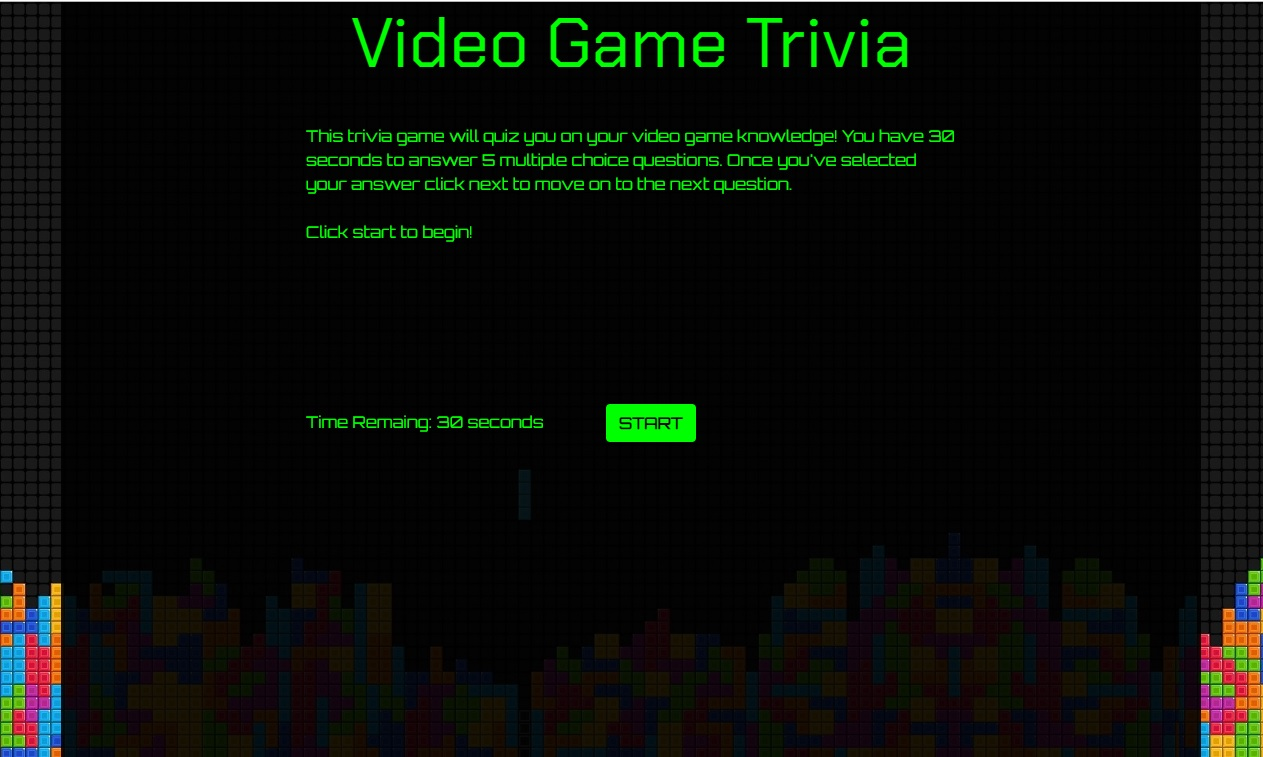
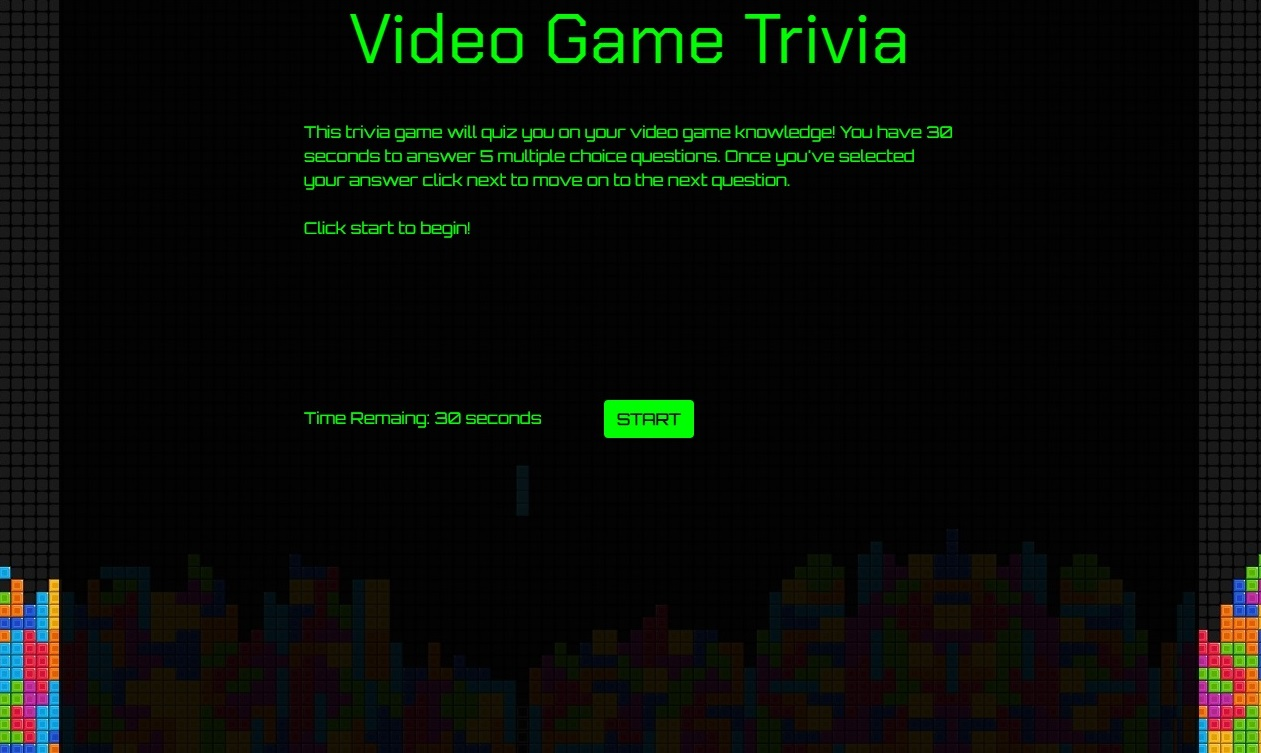
added animations, added project

diff --git a/index.html b/index.html
@@ -5,45 +5,69 @@
    <link rel="stylesheet" type="text/css" href="assets/css/reset.css">
    <link rel="stylesheet" href="https://stackpath.bootstrapcdn.com/bootstrap/4.1.3/css/bootstrap.min.css" integrity="sha384-MCw98/SFnGE8fJT3GXwEOngsV7Zt27NXFoaoApmYm81iuXoPkFOJwJ8ERdknLPMO"
    crossorigin="anonymous">
-   <link rel="stylesheet" href="https://cdnjs.cloudflare.com/ajax/libs/jquery-modal/0.9.1/jquery.modal.min.css" />
+   <link href="https://unpkg.com/aos@2.3.1/dist/aos.css" rel="stylesheet">
+   <link rel="stylesheet" href="https://cdnjs.cloudflare.com/ajax/libs/animate.css/3.7.0/animate.min.css">
+    <link rel="stylesheet" href="https://cdnjs.cloudflare.com/ajax/libs/jquery-modal/0.9.1/jquery.modal.min.css" />
   <link rel="stylesheet" type="text/css" href="assets/css/style.css">
   <link href="https://fonts.googleapis.com/css?family=Cabin+Sketch|Charm|Fredericka+the+Great" rel="stylesheet">
   <link href="https://fonts.googleapis.com/css?family=Niconne" rel="stylesheet">
   <link href="https://fonts.googleapis.com/css?family=Lora" rel="stylesheet">
+  
+  <script src="https://unpkg.com/aos@2.3.1/dist/aos.js"></script>
   <script src="https://cdnjs.cloudflare.com/ajax/libs/jquery/3.2.1/jquery.min.js"></script>
   <script src="https://cdnjs.cloudflare.com/ajax/libs/jquery-modal/0.9.1/jquery.modal.min.js"></script>
   <script src="assets/javascript/app.js"></script>
+  
 </head>
 <body>
     <main class="container">
-        <div class="jumbotron jumbotron-fluid" id="about-me">
+        <div class="jumbotron jumbotron-fluid" id="about-me" data-aos="fade-down">
             <div class="container">
                 <h1 class="display-4" id="about-head">About Me</h1>
                 <img id="my-photo" class="float-left rounded-circle" src="assets/images/hs-styled.png">
-                <p id="about-text"class="lead">Web developer with experience in html, css, and javascript. Partly self taught and currently going through a coding boot camp while working full time. Always looking for the opportunity to learn something new and build on old knowledge in order to create new, exciting web applications. Was originally pursuing a degree in sociology at The Ohio State University before reigniting passion for coding. Planning to return to school part time in pursuit of a CS degree.
+                <p id="about-text"class="lead">Web developer with experience in html, css, and javascript. Partly self taught and currently going through a coding boot camp while working full time. Always looking for the opportunity to learn something new and build on old knowledge in order to create new, exciting web applications. Was originally pursuing a degree in sociology at The Ohio State University before reigniting passion for coding. Planning to return to school part time in pursuit of a CS degree. Looking for opportunities to increase my knowledge and skill set while contributing to a development team.
 </p>
             </div>
         </div>
 
-        <div id="portfolio">
+        <div id="portfolio" data-aos="fade-up">
             <h1 class="display-4" id="portfolio-head">Portfolio</h1>
-            <div class=row>
-                <div class="card-holder card-left">
-                    <div class="card rounded" id="card-hold1">
-                        <div class="card-front rounded">
-                            <img class="rounded card-image" src="assets/images/trivia.jpg">
+            <div class="row">
+                <div class="col-6">
+                    <div class="card-holder card-left">
+                        <div class="card rounded" id="card-hold1">
+                            <div class="card-front rounded">
+                                <img class="rounded card-image" src="assets/images/trivia.jpg">
                             </div>
-                        <div class="card-back rounded">
-                            <p>#html #css #bootstrap #javascript #jquery</p>
-                            <p><a class="card-link" href="#trivia-modal" rel="modal:open">Learn More</a></p>
+                            <div class="card-back rounded">
+                                <p>#HTML #CSS #Bootstrap #JavaScript #jQuery</p>
+                                <p><a class="card-link" href="#trivia-modal" rel="modal:open">Learn More</a></p>
+                            </div>
                         </div>
                     </div>
+                    <h3 class="card-title-left">Trivia Game</h3>
+                </div>
+
+                <div class="col-6">
+                    <div class="card-holder card-right">
+                        <div class="card rounded" id="card-hold1">
+                            <div class="card-front rounded">
+                                <img class="rounded card-image" src="assets/images/night-out.jpg">
+                            </div>
+                            <div class="card-back rounded">
+                                <p>#HTML #CSS #Bootstrap #JavaScript #jQuery #API-integration #animation-libraries</p>
+                                <p><a class="card-link" href="#night-out-modal" rel="modal:open">Learn More</a></p>
+                            </div>
+                        </div>
+                    </div>
+                    <h3 class="card-title-right">Night on the Town</h3>
                 </div>
             </div>
-            <h3 class="card-title">Trivia Game</h3>
+            
+            
         </div>
 
-        <div id="contact">
+        <div id="contact" data-aos="fade-up">
             <h1 class="display-4" id="contact-head">Contact</h1>
             <div id="contact-holder">
                 <div class="row">
@@ -67,7 +91,7 @@
         
 
         <!--MODALS-->
-        <div id="trivia-modal" class="modal">
+        <div id="trivia-modal" class="modal animated fadeInRight">
             <img class="rounded modal-image" src="assets/images/trivia.jpg">
             <h3 class="modal-title">Trivia Game</h3>
             <p class="modal-description">A basic trivia game that utilizes JQuery selectors and on click functions to retrieve user input. It also uses JavaScript timing events to create a time limit in which the user must complete the game. Upon completion the game will then display the user's total score.</p>
@@ -78,6 +102,21 @@
                 <a href="https://github.com/JRMagyar/TriviaGame" target="_blank" class="modal-link">GitHub Repo</a>
                 <img src="assets/images/page.png" class="icon">
                 <a href="https://github.com/JRMagyar/TriviaGame/blob/master/README.md" target="_blank" class="modal-link">ReadMe</a>
+    
+            </div>
+        </div>
+
+        <div id="night-out-modal" class="modal animated fadeInRight">
+            <img class="rounded modal-image" src="assets/images/night-out.jpg">
+            <h3 class="modal-title">Night on the Town</h3>
+            <p class="modal-description">An application designed to provide user with bars, restaurants, and current or future events in any city of their choice utilizing multiple APIs and HTML5 geolocation. If the user does not want to allow geolocation access they can search for locations by entering their city and state or zipcode.</p>
+            <div class="link-holder">
+                <img src="assets/images/screen.png" class="icon">
+                <a href="https://davidferro91.github.io/GroupProject1/" target="_blank" class="modal-link">Live Page</a>
+                <img src="assets/images/github-mark.png" class="icon">
+                <a href="https://github.com/davidferro91/GroupProject1" target="_blank" class="modal-link">GitHub Repo</a>
+                <img src="assets/images/page.png" class="icon">
+                <a href="https://github.com/davidferro91/GroupProject1/blob/master/README.md" target="_blank" class="modal-link">ReadMe</a>
     
             </div>
         </div>

diff --git a/assets/css/style.css b/assets/css/style.css
@@ -85,6 +85,10 @@ body{
     margin-left: 210px;
     margin-right: 225px;
 }
+.card-right{
+    margin-left: 75px;
+    margin-right: 225px;
+}
 .card-link{
     position: absolute;
     bottom: 10px;
@@ -99,11 +103,21 @@ body{
     height: 100%;
     width: 100%;
 }
-.card-title{
+.card-title-left{
     position: absolute;
     font-family: 'Niconne', cursive;
     font-size: 35px;
-    margin-left: 240px;
+    margin-left: 210px;
+    width: 250px;
+    text-align: center;
+}
+.card-title-right{
+    position: absolute;
+    font-family: 'Niconne', cursive;
+    font-size: 35px;
+    margin-left: 75px;
+    width: 250px;
+    text-align: center;
 }
 .modal{
     height: 500px;

diff --git a/assets/javascript/app.js b/assets/javascript/app.js
@@ -1,0 +1,3 @@
+window.onload = function(){
+AOS.init();
+}
